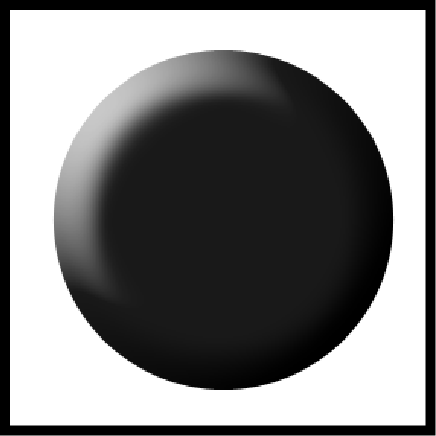
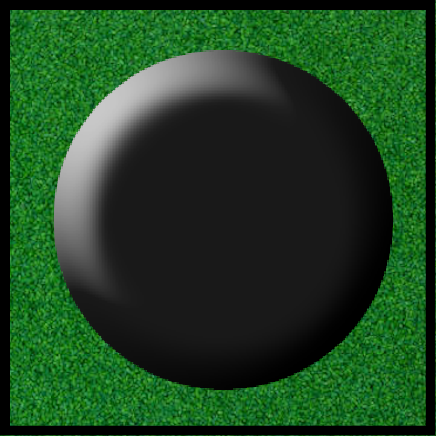
felt effect

diff --git a/web-app/browser/default.css b/web-app/browser/default.css
@@ -77,7 +77,7 @@ footer
     margin: 0;
     margin-left: auto;
     margin-right: auto;
-    padding: 0;
+    padding: 0%;
     position: relative;
     top: 2.5%;
     max-height: 95%;
@@ -106,7 +106,7 @@ footer
 
 .cell.empty
 {
-    background-image: url("assets/Empty_Green.png");    
+    background-image: url("assets/Empty_Green.png");   
 }
 
 .cell.token_1
